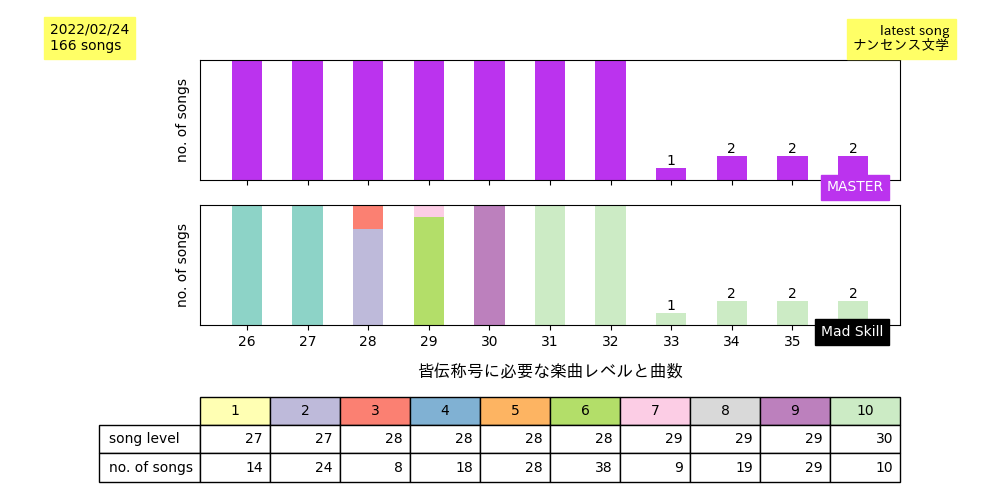
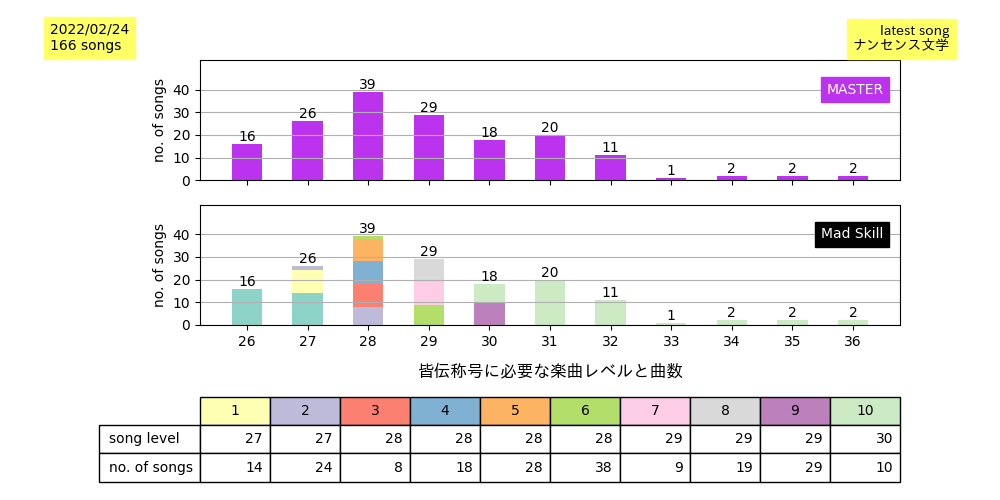
png updated

diff --git a/difficulty_stats_calc.py b/difficulty_stats_calc.py
@@ -8,6 +8,8 @@ from matplotlib import pyplot as plt
 
 def get_data(idx, keyword):
     global data
+    global key_data
+
     Res_data = {}
     for key in key_data:
         Res_data[key] = 0
@@ -69,12 +71,13 @@ print("oldest time: " + oldest_time.strftime("%Y%m%d"))
 data_offset_idx = 0
 
 # グラフの縦軸の最大値は使いまわす
-ytick_max = 0
+ytick_max = max(get_data(0, "M").values())
 
 os.makedirs(figfoler, exist_ok=True)
 
 while read_time(data[data_offset_idx]["release date"]) >= oldest_time and data_offset_idx < len(data):
-    if read_time(data[data_offset_idx + 1]["release date"]) >= oldest_time:
+    # kill while loop: remove to make while loop function
+    if read_time(data[data_offset_idx + 1]["release date"]) >= oldest_time and data_offset_idx + 1 < len(data):
         data_offset_idx += 1
         continue
 
@@ -100,10 +103,6 @@ while read_time(data[data_offset_idx]["release date"]) >= oldest_time and data_o
 
     ## テーブル用データ
     mad_skillz_stats = [["", ""] for i in range(10)]
-    
-    ## y軸最大値
-    if data_offset_idx == 0:
-        ytick_max = max(Mas_data.values())
 
     ## 今の場所を指すポインタ　[楽曲レベル、曲数]
     temp_diff_pos = [0, 0]
